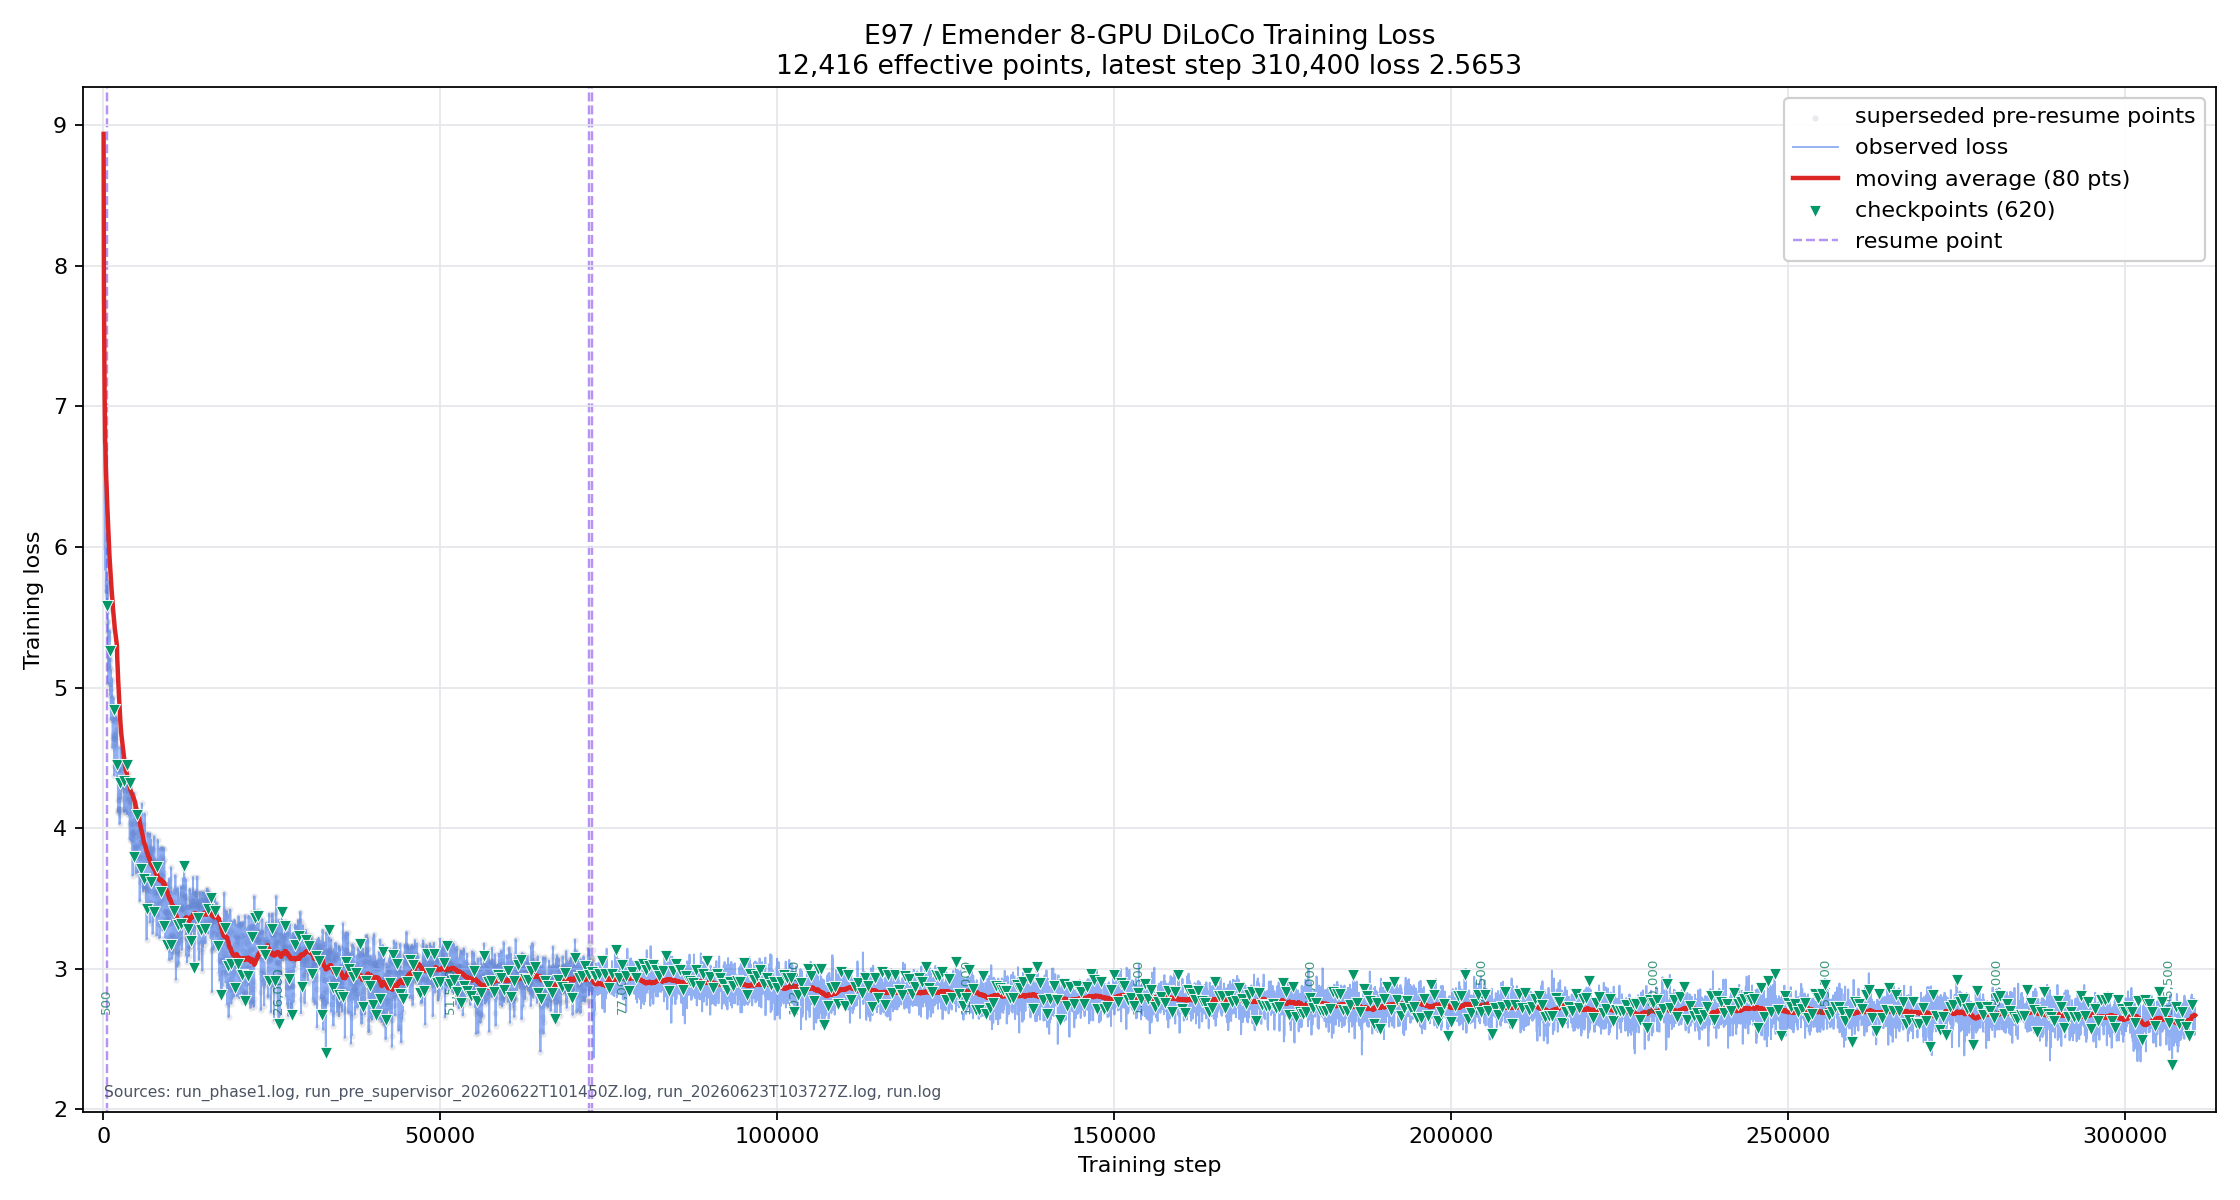
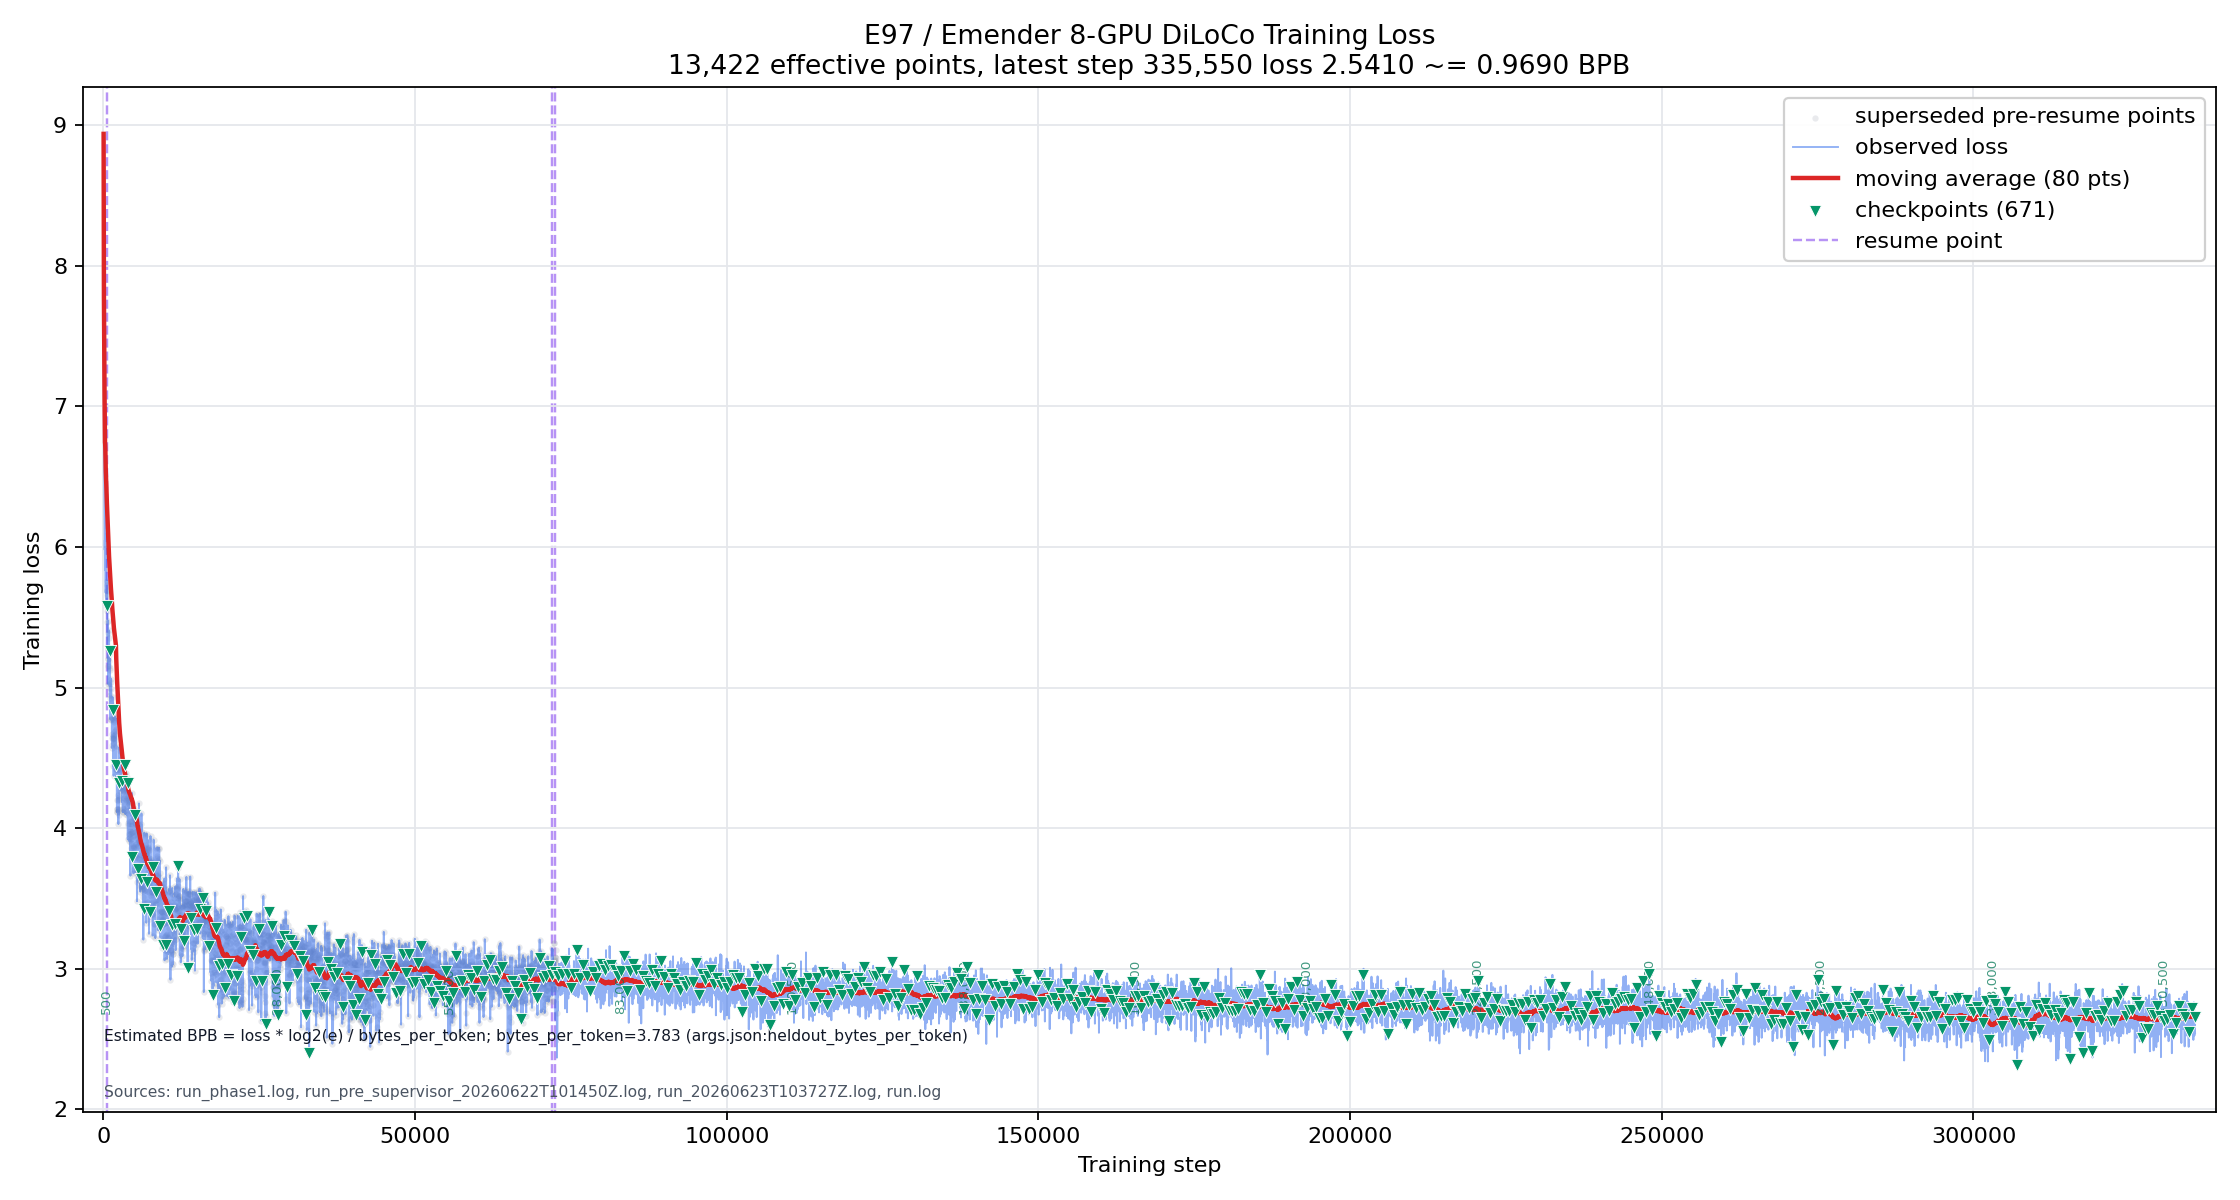
feat: add BPB annotation to E97 loss plot (estimate-bpb-update-e97-plot-20260626T135856)

diff --git a/scripts/plot_e97_diloco_loss.py b/scripts/plot_e97_diloco_loss.py
@@ -6,6 +6,8 @@ from __future__ import annotations
 import argparse
 import dataclasses
 import datetime as dt
+import json
+import math
 import re
 from pathlib import Path
 
@@ -149,6 +151,24 @@ def moving_average(values: list[float], window: int) -> list[float]:
     return averaged
 
 
+def read_bytes_per_token(run_root: Path) -> tuple[float, str]:
+    """Prefer the active E97 run's measured heldout byte/token conversion."""
+
+    args_paths = sorted(run_root.glob("runs/levelE97_100m_*/args.json"))
+    for path in reversed(args_paths):
+        try:
+            payload = json.loads(path.read_text(encoding="utf-8"))
+        except (OSError, json.JSONDecodeError):
+            continue
+        value = payload.get("heldout_bytes_per_token")
+        if value is not None:
+            return float(value), f"{path}:heldout_bytes_per_token"
+
+    fallback = Path("scripts/estimate_tokenizer_bytes_per_token.json")
+    payload = json.loads(fallback.read_text(encoding="utf-8"))
+    return float(payload["mean_bytes_per_token"]), f"{fallback}:mean_bytes_per_token"
+
+
 def plot(
     points: list[Point],
     superseded: list[Point],
@@ -156,6 +176,8 @@ def plot(
     checkpoints: list[Checkpoint],
     output: Path,
     sources: list[Path],
+    bytes_per_token: float,
+    bytes_per_token_source: str,
 ) -> None:
     steps = [point.step for point in points]
     losses = [point.loss for point in points]
@@ -229,10 +251,19 @@ def plot(
             )
 
     latest = points[-1]
+    bpb_per_nat = math.log2(math.e) / bytes_per_token
+    latest_bpb = latest.loss * bpb_per_nat
     source_names = ", ".join(path.name for path in sources)
+    bpt_source_parts = bytes_per_token_source.split(":", 1)
+    bpt_source_label = (
+        f"{Path(bpt_source_parts[0]).name}:{bpt_source_parts[1]}"
+        if len(bpt_source_parts) == 2
+        else bytes_per_token_source
+    )
     ax.set_title(
         "E97 / Emender 8-GPU DiLoCo Training Loss\n"
-        f"{len(points):,} effective points, latest step {latest.step:,} loss {latest.loss:.4f}"
+        f"{len(points):,} effective points, latest step {latest.step:,} "
+        f"loss {latest.loss:.4f} ~= {latest_bpb:.4f} BPB"
     )
     ax.set_xlabel("Training step")
     ax.set_ylabel("Training loss")
@@ -245,6 +276,16 @@ def plot(
         transform=ax.transAxes,
         fontsize=7,
         color="#4b5563",
+        va="bottom",
+        ha="left",
+    )
+    ax.text(
+        0.01,
+        0.065,
+        f"Estimated BPB = loss * log2(e) / bytes_per_token; bytes_per_token={bytes_per_token:.3f} ({bpt_source_label})",
+        transform=ax.transAxes,
+        fontsize=7,
+        color="#111827",
         va="bottom",
         ha="left",
     )
@@ -283,8 +324,20 @@ def main() -> None:
     if not effective_points:
         raise SystemExit("No step/loss points parsed from E97 logs")
 
-    plot(effective_points, superseded, resumes, checkpoints, args.output, existing_logs)
+    bytes_per_token, bytes_per_token_source = read_bytes_per_token(args.run_root)
+    plot(
+        effective_points,
+        superseded,
+        resumes,
+        checkpoints,
+        args.output,
+        existing_logs,
+        bytes_per_token,
+        bytes_per_token_source,
+    )
     latest = effective_points[-1]
+    bpb_per_nat = math.log2(math.e) / bytes_per_token
+    latest_bpb = latest.loss * bpb_per_nat
     print(f"output={args.output}")
     print(f"sources={','.join(str(path) for path in existing_logs)}")
     print(f"raw_points={len(points)}")
@@ -294,6 +347,10 @@ def main() -> None:
     print(f"checkpoint_steps={','.join(str(step) for step in sorted({checkpoint.step for checkpoint in checkpoints})) or 'none'}")
     print(f"latest_step={latest.step}")
     print(f"latest_loss={latest.loss:.4f}")
+    print(f"bytes_per_token={bytes_per_token:.6f}")
+    print(f"bytes_per_token_source={bytes_per_token_source}")
+    print(f"bpb_per_nat={bpb_per_nat:.12f}")
+    print(f"estimated_bpb={latest_bpb:.6f}")
     print(f"latest_time={latest.timestamp.isoformat()}")
 
 